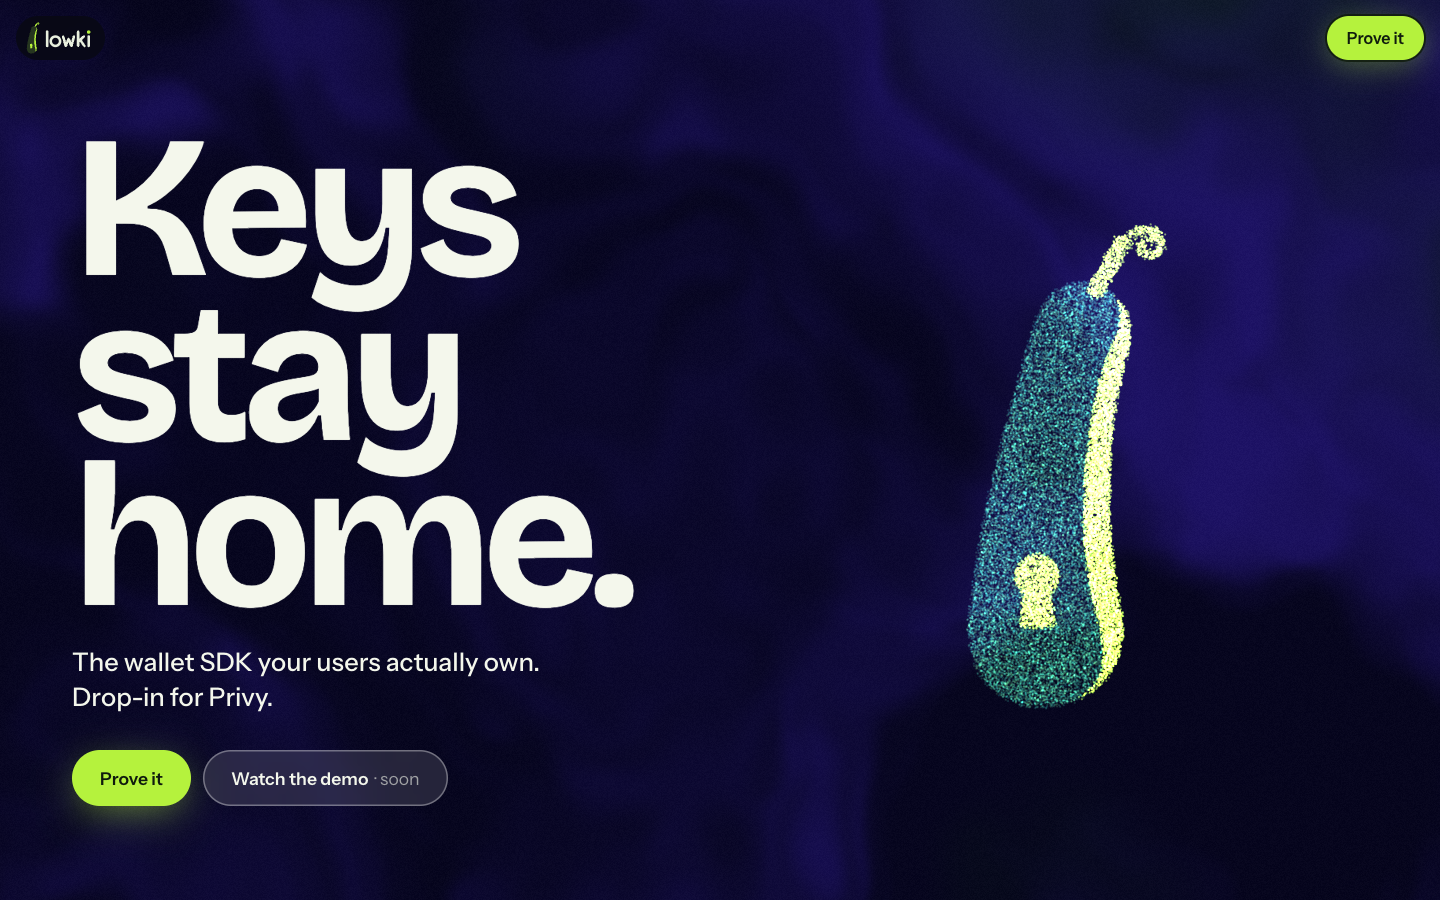
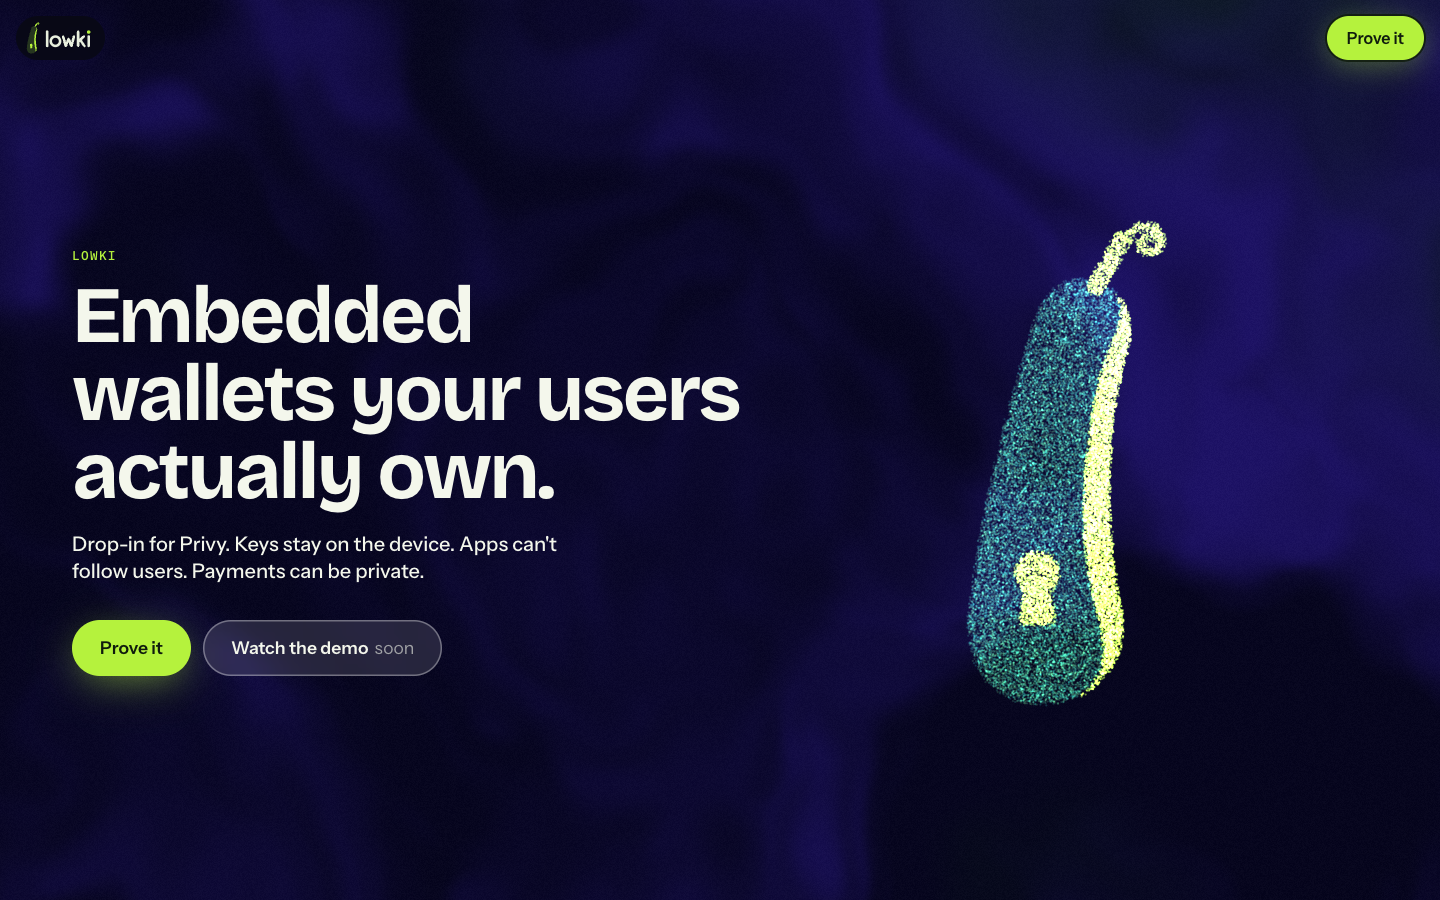
feat(site): tell one story in five sections
Hero, how it works (four steps and the one-import diff), the proof race, who sees what with the numbers, and links. Readable headline sizes; colour worlds and the WebGPU canvas kept.

Changed region(s): [[0.0312, 0.1556, 0.5312, 0.9333], [0.6562, 0.2489, 0.8125, 0.8089]]

diff --git a/apps/site/src/index.html b/apps/site/src/index.html
@@ -3,7 +3,7 @@
 <head>
 <meta charset="utf-8">
 <meta name="viewport" content="width=device-width, initial-scale=1">
-<title>Lowki · keys stay home</title>
+<title>Lowki · wallets your users own</title>
 <meta name="description" content="Lowki: the drop-in Privy wallet where keys stay on the device, apps can't follow users, and payments can be private. Prove a private payment right here.">
 <meta name="referrer" content="no-referrer">
 <meta name="theme-color" content="#07061F">
@@ -22,67 +22,44 @@
 </header>
 
 <main>
-  <section class="scene s0 ink-light" id="top" data-scene="0">
+  <section class="scene s0 ink-light hero" id="top" data-scene="0">
     <div class="copy">
-      <h1 class="mega">Keys<br>stay<br>home.</h1>
-      <p class="sub">The wallet SDK your users actually own. Drop-in for Privy.</p>
+      <p class="kicker">Lowki</p>
+      <h1 class="big">Embedded wallets your users actually own.</h1>
+      <p class="sub">Drop-in for Privy. Keys stay on the device. Apps can't follow users. Payments can be private.</p>
       <div class="ctas">
         <a class="btn btn-lime" href="#prove">Prove it</a>
-        <a class="btn btn-glass" data-link="video" href="#end">Watch the demo<span class="soon" hidden> · soon</span></a>
+        <a class="btn btn-glass" data-link="video" href="#end">Watch the demo<span class="soon" hidden>soon</span></a>
       </div>
     </div>
     <div class="art"><img class="fallback-art" src="logo/lowki-mark-night.svg" alt=""></div>
   </section>
 
-  <section class="scene s1 ink-dark" data-scene="1">
-    <div class="copy">
-      <h2 class="big">Not even we can sign.</h2>
-      <p class="sub">The seed lives on the device, sealed by a passkey.</p>
-    </div>
-    <div class="art"></div>
-  </section>
-
-  <section class="scene s2 ink-light" data-scene="2">
-    <div class="copy">
-      <h2 class="big">Swap one import.</h2>
-      <div class="diff mono" aria-label="Change @privy-io/react-auth to @lowki/react-auth">
-        <div class="del"><span>−</span>from '@privy-io/react-auth'</div>
-        <div class="add"><span>+</span>from '<b>@lowki/react-auth</b>'</div>
+  <section class="scene s1 ink-dark how" id="how" data-scene="1">
+    <div class="how-head">
+      <div class="copy">
+        <p class="kicker">How it works</p>
+        <h2 class="big">Same SDK. Different promise.</h2>
+        <div class="diff mono" aria-label="Change @privy-io/react-auth to @lowki/react-auth">
+          <div class="del"><span>−</span>import { usePrivy } from '@privy-io/react-auth'</div>
+          <div class="add"><span>+</span>import { usePrivy } from '<b>@lowki/react-auth</b>'</div>
+        </div>
       </div>
-      <p class="sub">Same hooks. Same types. Same app.</p>
+      <div class="art art-small"></div>
     </div>
-    <div class="art"></div>
-  </section>
-
-  <section class="scene s3 ink-dark" data-scene="3">
-    <div class="copy">
-      <h2 class="big">Every app, a&nbsp;stranger.</h2>
-      <p class="sub">A separate wallet and ID per app. Nobody follows your users.</p>
-    </div>
-    <div class="art"></div>
-  </section>
-
-  <section class="scene s4 ink-light" data-scene="4">
-    <div class="copy">
-      <h2 class="big">Pay. Leave no&nbsp;trail.</h2>
-      <p class="sub"><span class="warm">Public in</span>, <span class="lime">private out</span>. Privacy Pools, proved on the device.</p>
-    </div>
-    <div class="art"></div>
-  </section>
-
-  <section class="scene s5 ink-light" data-scene="5">
-    <div class="copy">
-      <h2 class="big">One name. Endless addresses.</h2>
-      <p class="sub"><b class="mono">alice.lowki.eth</b> gets paid at a fresh address every time. Live on Sepolia.</p>
-    </div>
-    <div class="art"></div>
+    <ol class="steps4">
+      <li class="c-ink"><svg viewBox="0 0 24 24" aria-hidden="true"><rect x="6" y="2.5" width="12" height="19" rx="3"/><circle cx="12" cy="10.5" r="2"/><path d="M11.2 12.3 10.6 16h2.8l-.6-3.7"/></svg><b>Keys on the device</b><span>A passkey unlocks a key that lives on the user's device. The server can't sign.</span></li>
+      <li class="c-magenta"><svg viewBox="0 0 24 24" aria-hidden="true"><rect x="3" y="3" width="7.5" height="7.5" rx="2"/><rect x="13.5" y="3" width="7.5" height="7.5" rx="2"/><rect x="3" y="13.5" width="7.5" height="7.5" rx="2"/><rect x="13.5" y="13.5" width="7.5" height="7.5" rx="2"/></svg><b>A wallet per app</b><span>Every app gets its own wallet and user ID. Apps can't follow users.</span></li>
+      <li class="c-green"><svg viewBox="0 0 24 24" aria-hidden="true"><circle cx="12" cy="12" r="5"/><path d="M2 8h5M2 16h5M17 6l5-2M17 18l5 2"/></svg><b>Pay privately</b><span>Shield and withdraw through Privacy Pools (Kohaku), proved in the browser.</span></li>
+      <li class="c-coral"><svg viewBox="0 0 24 24" aria-hidden="true"><path d="M12 12 4 5M12 12l8-7M12 12l-8 7M12 12l8 7M12 12V3M12 12v9"/><circle cx="12" cy="12" r="2.5"/></svg><b>Get paid at a name</b><span><code>alice.lowki.eth</code> resolves to a fresh address every time. Live on Sepolia.</span></li>
+    </ol>
   </section>
 
   <section class="scene s6 ink-light race" id="prove" data-scene="6">
     <div class="art art-full"></div>
     <div class="race-ui" id="race" data-state="idle">
-      <h2 class="big">Prove it. Here.</h2>
-      <p class="sub">A real private payment proof, made on this device.</p>
+      <h2 class="big">Prove it, right here.</h2>
+      <p class="sub">A real Privacy Pools withdrawal proof, made on this device. Then snarkjs makes the same one.</p>
       <div class="duel">
         <div class="side side-lowki">
           <span class="who">Lowki <i class="tag" id="lowki-tag">WebGPU</i></span>
@@ -101,10 +78,13 @@
     </div>
   </section>
 
-  <section class="scene s7 ink-light" id="who" data-scene="7">
-    <div class="copy wide">
-      <h2 class="big">Who sees what.</h2>
-      <div class="sees" role="table" aria-label="What each party can see">
+  <section class="scene s7 ink-light facts" id="who" data-scene="7">
+    <div class="art art-full"></div>
+    <div class="facts-grid">
+      <div class="copy">
+        <p class="kicker">Privacy</p>
+        <h2 class="big">Who sees what.</h2>
+        <div class="sees" role="table" aria-label="What each party can see">
         <div class="row head" role="row"><span role="columnheader"></span><span role="columnheader">Keys</span><span role="columnheader">Other apps</span><span role="columnheader">Email</span><span role="columnheader">Who paid whom</span></div>
         <div class="row" role="row"><span role="rowheader">The app</span><i class="no" role="cell">No</i><i class="no" role="cell">No</i><i class="no" role="cell">No</i><i class="no" role="cell">No</i></div>
         <div class="row" role="row"><span role="rowheader">Lowki server</span><i class="no" role="cell">No</i><i class="yes" role="cell">Yes</i><i class="part" role="cell">Hashed</i><i class="no" role="cell">No</i></div>
@@ -113,33 +93,32 @@
         <div class="row" role="row"><span role="rowheader">ENS gateway</span><i class="no" role="cell">No</i><i class="no" role="cell">No</i><i class="no" role="cell">No</i><i class="part" role="cell">Its names</i></div>
         <div class="row" role="row"><span role="rowheader">The chain</span><i class="no" role="cell">No</i><i class="no" role="cell">No</i><i class="no" role="cell">No</i><i class="no" role="cell">No</i></div>
       </div>
-      <p class="sub small">Our gaps are in colour. Full CROPS write-up in the README.</p>
-    </div>
-    <div class="art art-full"></div>
-  </section>
-
-  <section class="scene s8 ink-dark" id="numbers" data-scene="8">
-    <div class="copy wide">
-      <h2 class="big">Fast where it counts.</h2>
-      <div class="stats">
+        <p class="sub small">Gaps in colour. Full CROPS write-up in the README.</p>
+      </div>
+      <div class="copy" id="numbers">
+        <p class="kicker">Benchmarks</p>
+        <h2 class="big">Fast where it counts.</h2>
+        <div class="stats">
         <div class="stat st-ink"><b>3.6×</b><span>private proof<br><em>168 ms vs 603 ms</em></span></div>
         <div class="stat st-magenta"><b>6.2×</b><span>stealth scan<br><em>0.53 s vs 3.24 s</em></span></div>
         <div class="stat st-teal"><b>4.7×</b><span>key derivation<br><em>0.89 ms vs 4.18 ms</em></span></div>
         <div class="stat st-white"><b>768<small>KiB</small></b><span>the whole SDK<br><em>gzip, vs 804 KiB</em></span></div>
       </div>
-      <p class="sub small">Apple M5 Max, Chrome 156, against snarkjs, ScopeLift and Kohaku. Signing is 1.9× slower than noble; we say so.</p>
+        <p class="sub small">Apple M5 Max, Chrome 156, vs snarkjs, ScopeLift and Kohaku. Signing is 1.9× slower than noble.</p>
+      </div>
     </div>
-    <div class="art art-full"></div>
   </section>
 
   <section class="scene s9 ink-light" id="end" data-scene="9">
     <div class="copy">
-      <h2 class="mega">Own it.</h2>
+      <p class="kicker">Get started</p>
+      <h2 class="big">Try it live.</h2>
       <ul class="demos" id="demo-list"></ul>
       <div class="ctas">
-        <a class="btn btn-lime" data-link="video" href="#end">Watch the demo<span class="soon" hidden> · soon</span></a>
-        <a class="btn btn-glass" data-link="repo" href="#end">Code<span class="soon" hidden> · soon</span></a>
+        <a class="btn btn-lime" data-link="video" href="#end">Watch the demo<span class="soon" hidden>soon</span></a>
+        <a class="btn btn-glass" data-link="repo" href="#end">GitHub<span class="soon" hidden>soon</span></a>
       </div>
+      <p class="pillars mono">open source · self-hostable · Rust core</p>
       <p class="audit mono" id="audit"><i></i><span>Third-party requests from this page: <b id="audit-n">0</b></span></p>
     </div>
     <div class="art"><img class="fallback-art" src="logo/lowki-mark-night.svg" alt=""></div>

diff --git a/apps/site/src/styles.css b/apps/site/src/styles.css
@@ -155,3 +155,44 @@ a.demo[href]:hover { background: rgb(181 242 61 / 0.18); }
   .diff { font-size: 0.86rem; }
   .diff div { padding: 8px 12px; }
 }
+
+/* ---- v3: five sections, readable type ---- */
+.big { font-size: clamp(2.5rem, 4.8vw, 4.5rem); line-height: 0.98; letter-spacing: -0.035em; margin-bottom: 18px; }
+.sub { font-size: clamp(1.05rem, 1.4vw, 1.3rem); max-width: 40ch; }
+.kicker { margin: 0 0 14px; font: 500 0.8rem/1 var(--lk-font-mono); letter-spacing: 0.1em; text-transform: uppercase; opacity: 0.85; }
+.ink-light .kicker { color: var(--lk-lime); }
+.scene { min-height: auto; padding-top: 112px; padding-bottom: 96px; }
+.hero, .race { min-height: 100svh; }
+.hero .big { font-size: clamp(2.8rem, 5.6vw, 5rem); max-width: 13ch; }
+.how { grid-template-columns: 1fr; align-content: center; min-height: 100svh; }
+.how-head { display: grid; grid-template-columns: minmax(0, 1.2fr) minmax(0, 0.8fr); gap: 24px; align-items: center; }
+.art-small { height: 300px; }
+.diff { font-size: clamp(0.85rem, 1.15vw, 1.05rem); margin: 4px 0 0; max-width: 640px; }
+.diff .del { background: rgb(120 0 30 / 0.16); color: #5A0A1E; text-decoration-color: rgb(120 0 30 / 0.6); }
+.diff .add { background: rgb(15 27 13 / 0.88); color: var(--cream); }
+.steps4 { list-style: none; margin: 8px 0 0; padding: 0; display: grid; grid-template-columns: repeat(4, minmax(0, 1fr)); gap: 14px; }
+.steps4 li { display: flex; flex-direction: column; gap: 10px; padding: 22px; border-radius: 24px; min-height: 210px; }
+.steps4 svg { width: 40px; height: 40px; fill: none; stroke: currentColor; stroke-width: 1.7; stroke-linecap: round; stroke-linejoin: round; }
+.steps4 b { font: 700 1.3rem/1.15 var(--lk-font-display); }
+.steps4 span { font-size: 0.98rem; line-height: 1.4; opacity: 0.9; }
+.steps4 code { font: 500 0.9em var(--lk-font-mono); }
+.c-ink { background: var(--ink); color: #E8EFDD; } .c-ink svg, .c-ink b { color: var(--lk-lime); }
+.c-magenta { background: #FF2E7E; color: #fff; }
+.c-green { background: #0F3D3A; color: #E8FFFB; } .c-green svg, .c-green b { color: #2EF2D0; }
+.c-coral { background: #FFFDF5; color: #1A0612; } .c-coral svg, .c-coral b { color: #E8336D; }
+.num { font-size: clamp(3rem, 7vw, 6rem); }
+.x { font-size: clamp(2.6rem, 5.5vw, 5rem); }
+.facts { grid-template-columns: 1fr; }
+.facts-grid { position: relative; z-index: 1; display: grid; grid-template-columns: minmax(0, 1.1fr) minmax(0, 0.9fr); gap: clamp(24px, 4vw, 56px); align-items: start; width: 100%; max-width: 1280px; justify-self: center; }
+.facts .copy { max-width: none; }
+.facts .stats { grid-template-columns: 1fr 1fr; }
+.facts .stat { min-height: 150px; padding: 20px; }
+.facts .stat b { font-size: clamp(2.4rem, 3.6vw, 3.4rem); }
+.pillars { margin: 28px 0 0; font-size: 0.95rem; color: var(--lk-lime); }
+@media (max-width: 860px) {
+  .how-head, .facts-grid { grid-template-columns: 1fr; }
+  .art-small { order: -1; height: 200px; }
+  .steps4 { grid-template-columns: 1fr 1fr; gap: 10px; }
+  .steps4 li { padding: 16px; min-height: 0; }
+  .big, .hero .big { font-size: clamp(2.2rem, 9vw, 3rem); }
+}

diff --git a/apps/site/src/stage.ts b/apps/site/src/stage.ts
@@ -431,12 +431,14 @@ export async function startStage(cv: HTMLCanvasElement, scenes: HTMLElement[], s
     const sb = Math.min(scenes.length - 1, sa + 1);
     const f = sf - sa;
     const slot = (k: number) => rectOf(scenes[k].querySelector<HTMLElement>(".art") ?? scenes[k]);
-    mouseOn += (mouseTarget * (sa === 0 || sa === 9 ? 1 : 0.6) - mouseOn) * 0.08;
+    const sid = (k: number) => Number(scenes[k].dataset.scene ?? k);
+    mouseOn += (mouseTarget * (sid(sa) === 0 || sid(sa) === 9 ? 1 : 0.6) - mouseOn) * 0.08;
     const motion = reducedMotion() ? 0 : 1;
     const burst = race.burst >= 0 ? (now - race.burstAt) / 1000 : 0;
-    const rs = rectOf(scenes[6].querySelector<HTMLElement>(".art") ?? scenes[6]);
+    const raceScene = scenes.find((x) => x.dataset.scene === "6") ?? scenes[0];
+    const rs = rectOf(raceScene.querySelector<HTMLElement>(".art") ?? raceScene);
     const dens = Math.min(1, Math.max(0.45, (innerWidth * innerHeight) / (1300 * 820)));
-    u.set([innerWidth, innerHeight, (now - t0) / 1000, f, ...slot(sa), ...slot(sb), sa, sb, dpr, motion, mouse[0], mouse[1], mouseOn, ndraw,
+    u.set([innerWidth, innerHeight, (now - t0) / 1000, f, ...slot(sa), ...slot(sb), sid(sa), sid(sb), dpr, motion, mouse[0], mouse[1], mouseOn, ndraw,
       race.r0, race.r1, race.rp, burst > 6 ? 0 : burst, race.download, dens, rs[0] + rs[2] / 2, rs[1] + rs[3] / 2]);
     dev.queue.writeBuffer(ubuf, 0, u);
     const enc = dev.createCommandEncoder();
